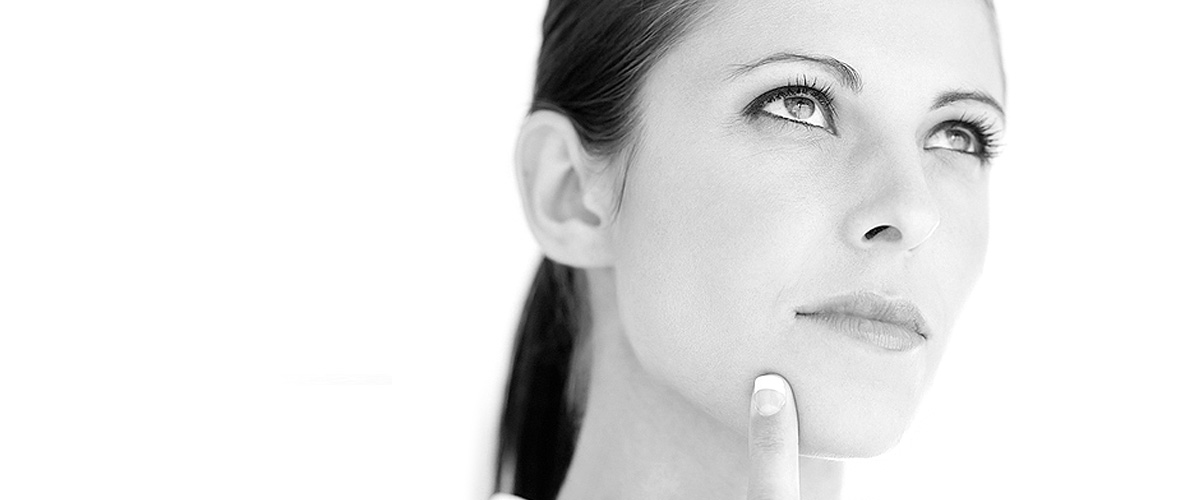
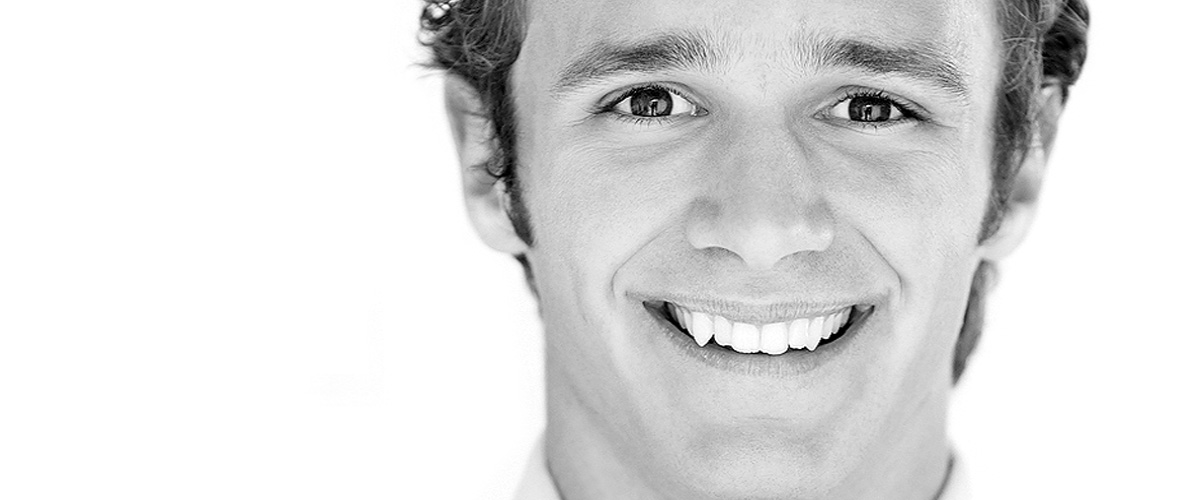
Template (bugfix): replaced the slideshow images and added a fluency sidebar
git-svn-id: http://svn.contrexxlabs.com/contrexx/trunk@26295 5ce06e5d-2b28-0410-aa6a-b3cd9cf52d8a

Changed region(s): [[0.3392, 0.0, 0.925, 1.0], [0.5242, 0.9, 0.5858, 1.0]]

diff --git a/themes/contrexx_3_1/javascript.js b/themes/contrexx_3_1/javascript.js
@@ -5,7 +5,7 @@
             var activeLanguage = $('#select-language a.active');
             activeLanguage.remove();
             $('#select-language a:not(\'.active\')').slice(0, 1).before(activeLanguage);
-            
+
             $('#select-language a.active').click(function () {
                 $('#select-language').toggleClass('active');
                 $(':not(\'#select-language a\')').click(function () {
@@ -18,7 +18,7 @@
             $('#select-language a').addClass('alone');
         }
         /* Metanavigation End */
-        
+
         /* Navigation Start */
         $('#navigation > li').hover(function () {
             $(this).children('ul').animate({
@@ -28,14 +28,14 @@
         }, function () {
             $(this).children('ul').hide();
         });
-        
+
         $('#navigation li.level-1:first').addClass('first');
         $('#navigation li.level-1:last').addClass('last');
         $('#navigation li.level-1').children('ul').each(function () {
             $(this).children('li:last').addClass('last');
         });
         $('#navigation li.active').parents('ul.menu').siblings('a').removeClass('starter_normal').addClass('starter_active').parent().removeClass('starter_normal').addClass('starter_active');
-        
+
         if ($('#subnavigation li.level-2').length == 0) {
             $('#subnavigation').hide();
         }
@@ -50,31 +50,29 @@
             $('#subnavigation li:visible:last').parent().parent().parent().addClass('no-border');
         }
         /* Navigation End */
-        
+
         /* Shop Start */
         $('#shop-categories li a:last').addClass('last');
         $('#shop-currencies a:last').addClass('last');
         /* Shop End */
-        
+
         /* Cycle Start */
         if ($('#cycle').length > 0) {
-            $('#cycle').wrap(
-                '<div id="cycle-wrapper" />'
-            ).after(
+            $('#cycle').after(
                 '<div class="cycle-button" id="cycle-prev" />' +
                 '<div class="cycle-button" id="cycle-next" />' +
                 '<div id="cycle-nav" />'
-            ).cycle({ 
-                fx:      'fade', 
-                speed:    1000, 
+            ).cycle({
+                fx:      'fade',
+                speed:    1000,
                 timeout:  0,
-                next:    '#cycle-next', 
+                next:    '#cycle-next',
                 prev:    '#cycle-prev',
                 pager:   '#cycle-nav'
             });
-            
+
             $('#cycle-nav a').empty();
-            
+
             $('#cycle-wrapper').hover(function (e) {
                 $('#cycle-prev').stop(true, true).hide().css('left', '-35px').animate({
                     left:    '+=45',
@@ -96,7 +94,7 @@
             });
         }
         /* Cycle End */
-        
+
         /* Scroll Start */
         $(window).scroll(function () {
             if ($(this).scrollTop() > 100) {
@@ -105,7 +103,7 @@
                 $('#back-top').fadeOut();
             }
         });
-        
+
         $('#back-top').click(function () {
             $('html, body').animate({
                 scrollTop: 0
@@ -114,12 +112,13 @@
         });
         /* Scroll End */
 
+
+        /* sticky navigation top */
         var stickyNavTop = $('#navigation-wrapper').offset().top;
 
         var stickyNav = function(){
-            var scrollTop = $(window).scrollTop();
-
-            if (scrollTop > stickyNavTop) {
+            var scrolltop = $(window).scrollTop();
+            if (scrolltop > stickyNavTop) {
                 $('#navigation-wrapper').addClass('sticky');
                 $('#navigation-wrapper').css('top', $('body').css('padding-top'));
             } else {
@@ -128,10 +127,30 @@
             }
         };
 
+        /* fluent sidebar */
+
+        var sidebar = $("#sidebar");
+        var sidebarTop = sidebar.offset().top;
+
+        var fluentSidebar = function() {
+            var scrolltop = $(window).scrollTop();
+            if (scrolltop > sidebarTop - 100) {
+                sidebar.stop().animate({
+                    'marginTop': scrolltop - 50
+                });
+            } else {
+                sidebar.stop().animate({
+                    'marginTop': 0
+                });
+            }
+        };
+
         stickyNav();
+        fluentSidebar();
 
         $(window).scroll(function() {
             stickyNav();
+            fluentSidebar();
         });
     });
 })(jQuery);

diff --git a/themes/contrexx_3_1/home.html b/themes/contrexx_3_1/home.html
@@ -1,8 +1,9 @@
 <div id="eyecatcher">
-    <div id="cycle">
-        <div>{BLOCK_29}</div>
-        <div>{BLOCK_30}</div>
-        <div>{BLOCK_31}</div>
+    <div id="cycle-wrapper">
+        <div id="cycle">
+            <div>{BLOCK_29}</div>
+            <div>{BLOCK_30}</div>
+        </div>
     </div>
 </div>
 

diff --git a/themes/contrexx_3_1/layout.css b/themes/contrexx_3_1/layout.css
@@ -216,6 +216,7 @@
     width: 1200px;
     height: 500px;
     margin: 0 auto;
+    overflow: none;
 }
 
 #cycle,
